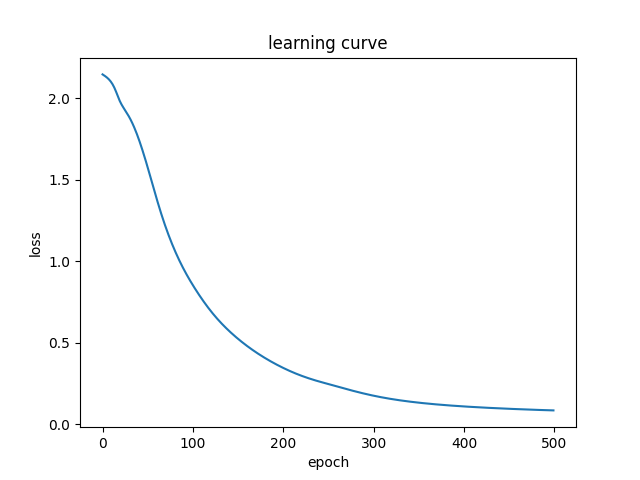
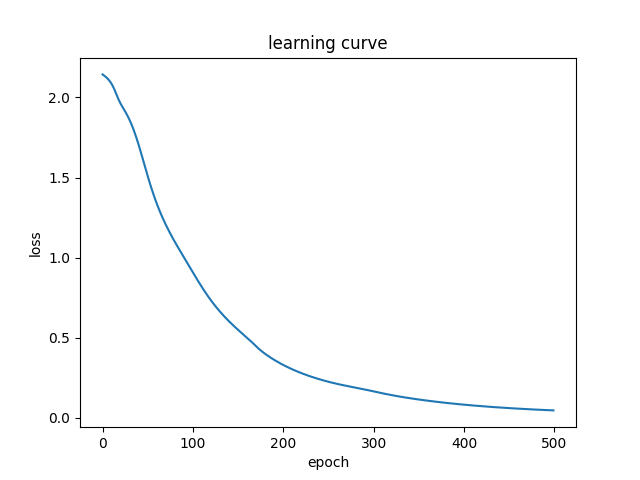
smdl day5: attention demo (#15)
* updated .gitignore

* skeleton attention

* wip: attention

* wired up attention

* bigger dataset

* back to toy dataset

* not enough data, concat the encoded input with attention

* show attended context

* use recurrent_initializer='glorot_uniform'

* revert recurrent initialiser, switch to return sequences for encoder

* clarify

* mark changes

* train slightly more epochs

* dump contexts

* update text

diff --git a/SMDL/Day5/lessons/task1/attention.py b/SMDL/Day5/lessons/task1/attention.py
@@ -1,0 +1,267 @@
+# Demo of Attention Layer
+# A modified version of Day3/task4/training.py to add Attention to the Seq2Seq model
+# Look for sections marked __NEW__ to see the changes
+
+import tensorflow as tf
+from tensorflow.keras.layers.experimental.preprocessing import TextVectorization
+from tensorflow.keras.models import Model
+from tensorflow.keras.layers import Embedding, GRU, Dense, Attention
+from tensorflow.keras.optimizers import Adam
+import time
+import matplotlib.pyplot as plt
+
+# import classes and losses from previous tasks
+import sys
+import os
+
+sys.path.append(os.path.join('..', '..', '..', 'Day3', 'lessons'))
+from task1.encoder import MyEncoder
+from task3.loss_function import loss_function
+
+# source text
+english_text = ['Ask, and it will be given to you',
+                'seek, and you will find',
+                'knock, and it will be opened to you.',
+                'For everyone who asks receives',
+                'and he who seeks finds',
+                'and to him who knocks it will be opened']
+
+# target text
+spanish_text = ['Pidan, y se les dará',
+                'busquen, y encontrarán',
+                'llamen, y se les abrirá.',
+                'Porque todo el que pide, recibe',
+                'el que busca, encuentra',
+                'y al que llama, se le abre']
+
+BATCH_SIZE = len(english_text)
+EMBEDDING_SIZE = 4
+BOTTLENECK_UNITS = 6
+
+START_TOKEN = 'aaaa'
+END_TOKEN = 'zzzz'
+
+
+def get_vectorizer(texts):
+    vectorizer = TextVectorization()
+    vectorizer.adapt(texts)
+    return vectorizer
+
+
+src_delimited = [f'{START_TOKEN} {t} {END_TOKEN}' for t in english_text]
+src_vectorizer = get_vectorizer(src_delimited)
+src_vocab = src_vectorizer.get_vocabulary()
+print('Source Vocabulary', src_vocab)
+src_sequences = src_vectorizer(src_delimited)
+
+tgt_delimited = [f'{START_TOKEN} {t} {END_TOKEN}' for t in spanish_text]
+tgt_vectorizer = get_vectorizer(tgt_delimited)
+tgt_vocab = tgt_vectorizer.get_vocabulary()
+print('Target Vocabulary', tgt_vocab)
+tgt_sequences = tgt_vectorizer(tgt_delimited)
+tgt_start_token_index = tgt_vocab.index(START_TOKEN)
+
+
+# Encoder from Day 3, modified to return sequences
+class MyEncoderSequences(Model):
+    def __init__(self, vocab_size, embedding_dim, enc_units, batch_size):
+        super(MyEncoderSequences, self).__init__()
+        self.vocab_size = vocab_size
+        self.batch_size = batch_size
+        self.enc_units = enc_units
+        self.embedding = Embedding(vocab_size, embedding_dim)
+        self.gru = GRU(self.enc_units, return_state=True, return_sequences=True)
+
+    def call(self, x, hidden):
+        x = self.embedding(x)
+        output, state = self.gru(x, initial_state=hidden)
+        return output, state
+
+    def initialize_hidden_state(self):
+        return tf.zeros((self.batch_size, self.enc_units))
+
+    def get_config(self):
+        # to enable model saving as HDF5 format
+        return {'batch_size': self.batch_size,
+                'enc_units': self.enc_units}
+
+
+encoder = MyEncoderSequences(len(src_vocab), embedding_dim=EMBEDDING_SIZE,
+                             enc_units=BOTTLENECK_UNITS,
+                             batch_size=BATCH_SIZE)
+
+
+# Decoder from Day3, modified with Attention
+class MyDecoderWithAttention(Model):
+    def __init__(self, vocab_size, embedding_dim, dec_units, batch_size):
+        super(MyDecoderWithAttention, self).__init__()
+        self.batch_size = batch_size
+        self.dec_units = dec_units
+        self.embedding = Embedding(vocab_size, embedding_dim)
+        self.gru = GRU(self.dec_units, return_sequences=True, return_state=True)
+        self.fc = Dense(vocab_size)
+
+        # __NEW__: attention, increase dropout to reduce the effect of the weights
+        self.attention = Attention()
+
+    def call(self, x, hidden, enc_output):
+        # __NEW__: get the context vector (i.e. weighted encoded output) by applying attention
+        # query: previous decoder hidden state, value: encoded source sequence
+        context_vector = self.attention([hidden, enc_output])
+        # since we use return_sequences=True in encoder, need to then
+        # collapse the middle dimension (sequence dim) back to 1
+        context_vector = tf.reduce_sum(context_vector, axis=1)
+
+        # pass the target through the decoder
+        # x shape after passing through embedding == (batch_size, 1, embedding_dim)
+        x = self.embedding(x)
+
+        # __NEW__: concat the context vector with the target (instead of the encoded output)
+        x = tf.concat([tf.expand_dims(context_vector, 1), x], axis=-1)
+
+        # passing the concatenated vector to the GRU
+        output, state = self.gru(x)
+
+        # output shape == (batch_size * 1, hidden_size)
+        # (same as Flatten)
+        output = tf.reshape(output, (-1, output.shape[2]))
+
+        # output shape == (batch_size, vocab)
+        x = self.fc(output)
+
+        return x, state, context_vector
+
+    def get_config(self):
+        # to enable model saving as HDF5 format
+        return {'batch_size': self.batch_size,
+                'dec_units': self.dec_units}
+
+
+decoder = MyDecoderWithAttention(len(tgt_vocab), embedding_dim=EMBEDDING_SIZE,
+                                 dec_units=BOTTLENECK_UNITS,
+                                 batch_size=BATCH_SIZE)
+
+
+# https://www.tensorflow.org/api_docs/python/tf/function
+# Compile the function into a Tensorflow graph
+# @tf.function
+def train_step(source, target, enc_hidden, optimizer):
+    loss = 0
+
+    # enable automatic gradient in the block below
+    with tf.GradientTape() as tape:
+        enc_output, enc_hidden = encoder(source, enc_hidden)
+        dec_hidden = enc_hidden
+
+        # set the start token
+        dec_input = tf.expand_dims([tgt_vocab.index(START_TOKEN)] * BATCH_SIZE, 1)
+
+        # Teacher forcing - feeding the target as the next input
+        for t in range(1, target.shape[1]):
+            # Loop through the target sequence,
+            # passing enc_output to the decoder
+            predictions, dec_hidden, _ = decoder(dec_input, dec_hidden, enc_output)
+            loss += loss_function(target[:, t], predictions)
+
+            # Using teacher forcing by setting the decoder input to the next target
+            # (we don't use the predictions as input, only for compute the loss)
+            # (we are "teaching" the encoder-decoder with the target)
+
+            # target[:, t] shape == (batch_size, 1)
+            # tf.expand_dims(target[:, t], 1) shape == (batch_size, 1, 1)
+            dec_input = tf.expand_dims(target[:, t], 1)
+
+    # compute the gradient of the loss w.r.t. weights
+    # apply gradient descent
+    weights = encoder.trainable_weights + decoder.trainable_weights
+    gradients = tape.gradient(loss, weights)
+    optimizer.apply_gradients(zip(gradients, weights))
+
+    batch_loss = (loss / int(target.shape[1]))
+    return batch_loss
+
+
+def train(train_dataset, epochs, optimizer):
+    # training loop
+
+    loss_history = []
+
+    for epoch in range(epochs):
+        start_time = time.time()
+
+        enc_hidden = encoder.initialize_hidden_state()
+        total_loss = 0
+
+        # https://www.tensorflow.org/guide/keras/writing_a_training_loop_from_scratch
+        for batch, (src_batch, tgt_batch) in enumerate(train_dataset):
+            batch_loss = train_step(src_batch, tgt_batch, enc_hidden, optimizer)
+            total_loss += batch_loss
+            print(f'> {epoch + 1} ({batch + 1}) Loss {batch_loss.numpy():.4f}')
+
+        print(f'>> {epoch + 1} Loss {(total_loss / (batch + 1)):.4f} Elapsed {time.time() - start_time:.4f} sec')
+        loss_history.append(total_loss / (batch + 1))
+
+    return loss_history
+
+
+def predict(sentence: str):
+    result = ''
+
+    # __NEW__: store the encoder contexts so that we can visualise
+    # what attention focuses on at each sequence step
+    contexts = []
+
+    sentence = f'{START_TOKEN} {sentence} {END_TOKEN}'
+    inputs = src_vectorizer([sentence])
+    inputs = tf.convert_to_tensor(inputs)
+
+    hidden = [tf.zeros((1, BOTTLENECK_UNITS))]
+    enc_out, enc_hidden = encoder(inputs, hidden)
+
+    dec_hidden = enc_hidden
+    dec_input = tf.expand_dims([tgt_start_token_index], 0)
+
+    max_target_sequence_length = 10
+    for t in range(max_target_sequence_length):
+        # get the predicted id for the next word
+        predictions, dec_hidden, enc_context = decoder(dec_input, dec_hidden, enc_out)
+        predicted_id = tf.argmax(predictions[-1]).numpy()
+        result += tgt_vocab[predicted_id] + ' '
+
+        # stop when we reach the end token
+        if tgt_vocab[predicted_id] == END_TOKEN:
+            break
+
+        # the predicted id and decoder hidden state is fed back into the model
+        dec_input = tf.expand_dims([predicted_id], 0)
+
+        # __NEW__: save the encoder context for each step
+        contexts.append(enc_context)
+
+    return result, contexts
+
+
+if __name__ == '__main__':
+    # Create a batched dataset from our sequences
+    BATCHES_PER_EPOCH = 5
+    dataset = tf.data.Dataset.from_tensor_slices((src_sequences, tgt_sequences))
+    dataset = dataset.shuffle(1024) \
+        .batch(BATCH_SIZE) \
+        .repeat(BATCHES_PER_EPOCH)
+
+    # __NEW__: train a bit longer for Attention layer to settle
+    # since we've now added more information to the decoder to decode
+    history = train(dataset, epochs=700, optimizer=Adam())
+
+    plt.plot(history)
+    plt.ylabel('loss')
+    plt.xlabel('epoch')
+    plt.title('learning curve')
+    plt.savefig('learning_curve.png')
+    plt.show()
+
+    for t in english_text:
+        # __NEW__: get the contexts to visualise
+        prediction, contexts = predict(t)
+        print(t, '=>', prediction)
+        print('\tcontexts:', contexts)

diff --git a/SMDL/Day3/lessons/task5/predict.py b/SMDL/Day3/lessons/task5/predict.py
@@ -93,10 +93,10 @@ def predict(sentence: str):
         # get the predicted id for the next word
         predictions, dec_hidden = decoder(dec_input, dec_hidden, enc_out)
         predicted_id = tf.argmax(predictions[-1]).numpy()
-        result += target_vectorizer.get_vocabulary()[predicted_id] + ' '
+        result += target_vocab[predicted_id] + ' '
 
         # stop when we reach the end token
-        if target_vectorizer.get_vocabulary()[predicted_id] == END_TOKEN:
+        if target_vocab[predicted_id] == END_TOKEN:
             break
 
         # the predicted id and decoder hidden state is fed back into the model

diff --git a/SMDL/Day5/lessons/task1/task.md b/SMDL/Day5/lessons/task1/task.md
@@ -1,0 +1,42 @@
+## Attention Layer
+
+An [Attention](https://www.tensorflow.org/api_docs/python/tf/keras/layers/Attention) layer can be used to
+learn which inputs are "most relevant" in the decisions made by an artificial neural network.
+
+Attention layers were introduced in 2015 (for Neural Machine Translation), but the general principle can apply to sequence-to-sequence models. 
+
+Attention (a variant called multi-headed attention) is also the main element in Transformers. Transformers are tipped to be the successors to RNNs for sequential learning. We will cover Transformers in the next task.
+
+The most basic Attention layer receives input in the form of query and key-value pairs:
+
+|Application|Query Sequence|Key (maybe not sequence)|Value Sequence|
+|---|---|---|---|
+|Neural Machine Translation|target sequence|source sequence|source sequence|
+|Recommendation System|target items|user profile|user purchase history|
+
+* Notice that the query is referring to the **target**. This is because in Attention, we are trying to learn the relevance of sequential inputs (represented by key-value) on the sequential prediction (represented by the query). 
+
+* Attention is just a generic framework to learn dynamic scores on sequential inputs, so the concept of keys are included to allow for extraneous (possibly non-sequential) descriptive information on the inputs. In most cases, where there is no extraneous information about the sequential inputs, then key == value (the case for Neural Machine Translation).
+
+* The "relevance" is computed as a **weighted sum of the key and query sequence**. This yields a set of dynamic scores for each step in the value sequence v[t] (remember, value sequence is the **source** sequence).
+
+* The dynamic scores are then **applied to the value sequence using another weighted sum**. This yields a set of dynamically weighted values, where higher weightage at v[t] means more relevance (more "attention" is given). This is called the **context vector** and is concatenated with the input to the subsequent layers.
+
+### Calculation
+
+Inputs are query tensor of shape [batch_size, Tq, dim], value tensor of shape [batch_size, Tv, dim] and key tensor of shape [batch_size, Tv, dim]. The calculation follows the steps:
+
+- Calculate scores with shape [batch_size, Tq, Tv] as a query-key dot product: scores = tf.matmul(query, key, transpose_b=True).
+- Use scores to calculate a distribution with shape [batch_size, Tq, Tv]: distribution = tf.nn.softmax(scores).
+- Use distribution to create a linear combination of value with shape [batch_size, Tq, dim]: return tf.matmul(distribution, value).
+
+### Usage notes:
+- Attention perform a query-key dot product, so each query and key should ideally have a sequence dimension. Otherwise the dot product will just produce 1 number (not very useful as a probability distribution!).
+- Therefore, make sure that your final RNN layer returns sequences.
+
+
+Further Enhancements:
+* Neural Machine Translation with (Bahdanau) attention: https://www.tensorflow.org/tutorials/text/nmt_with_attention
+* Self-attention: where key, value, and query 
+* Global vs. Local attention: https://nlp.stanford.edu/pubs/emnlp15_attn.pdf
+* Spatial vs. Temporal attention: https://www.groundai.com/project/where-and-when-to-look-spatio-temporal-attention-for-action-recognition-in-videos/1
